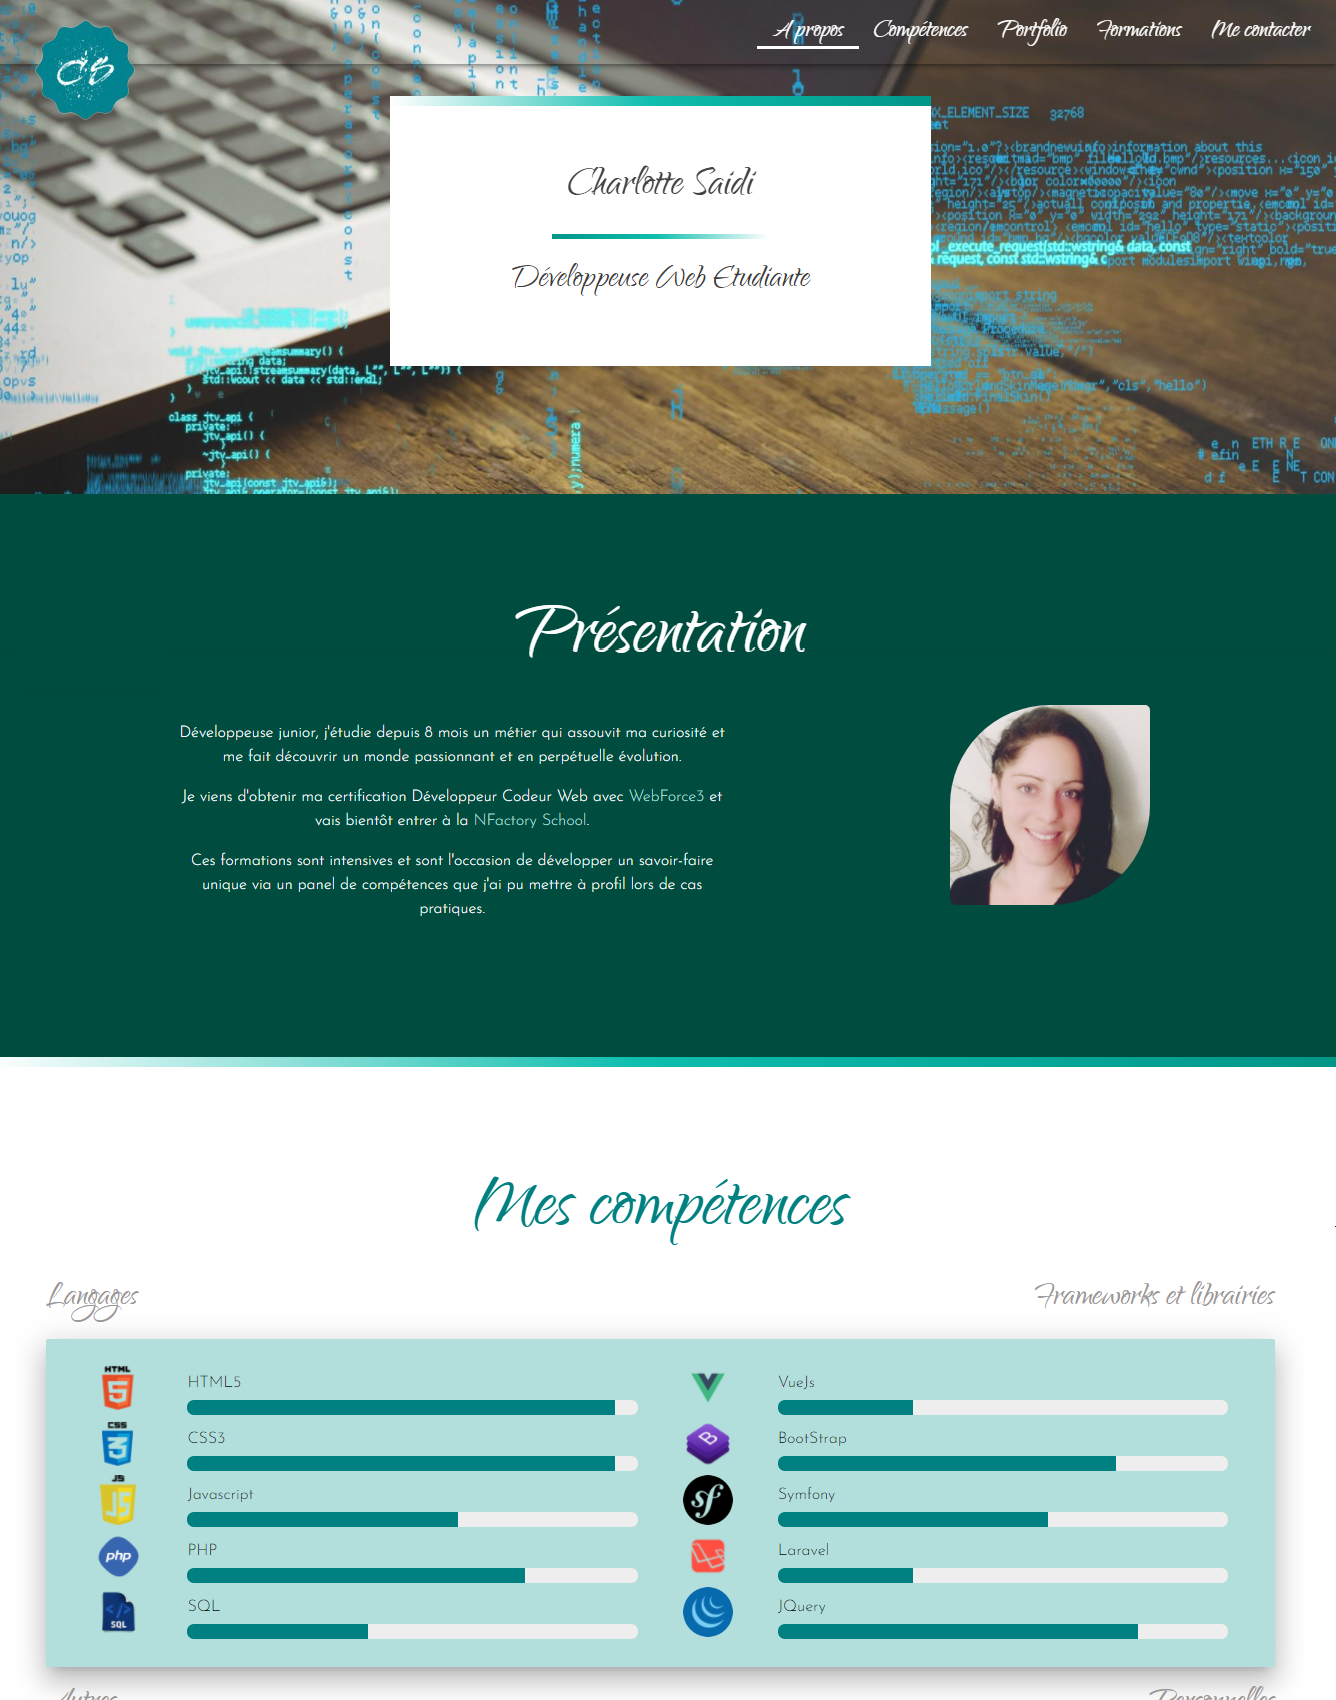
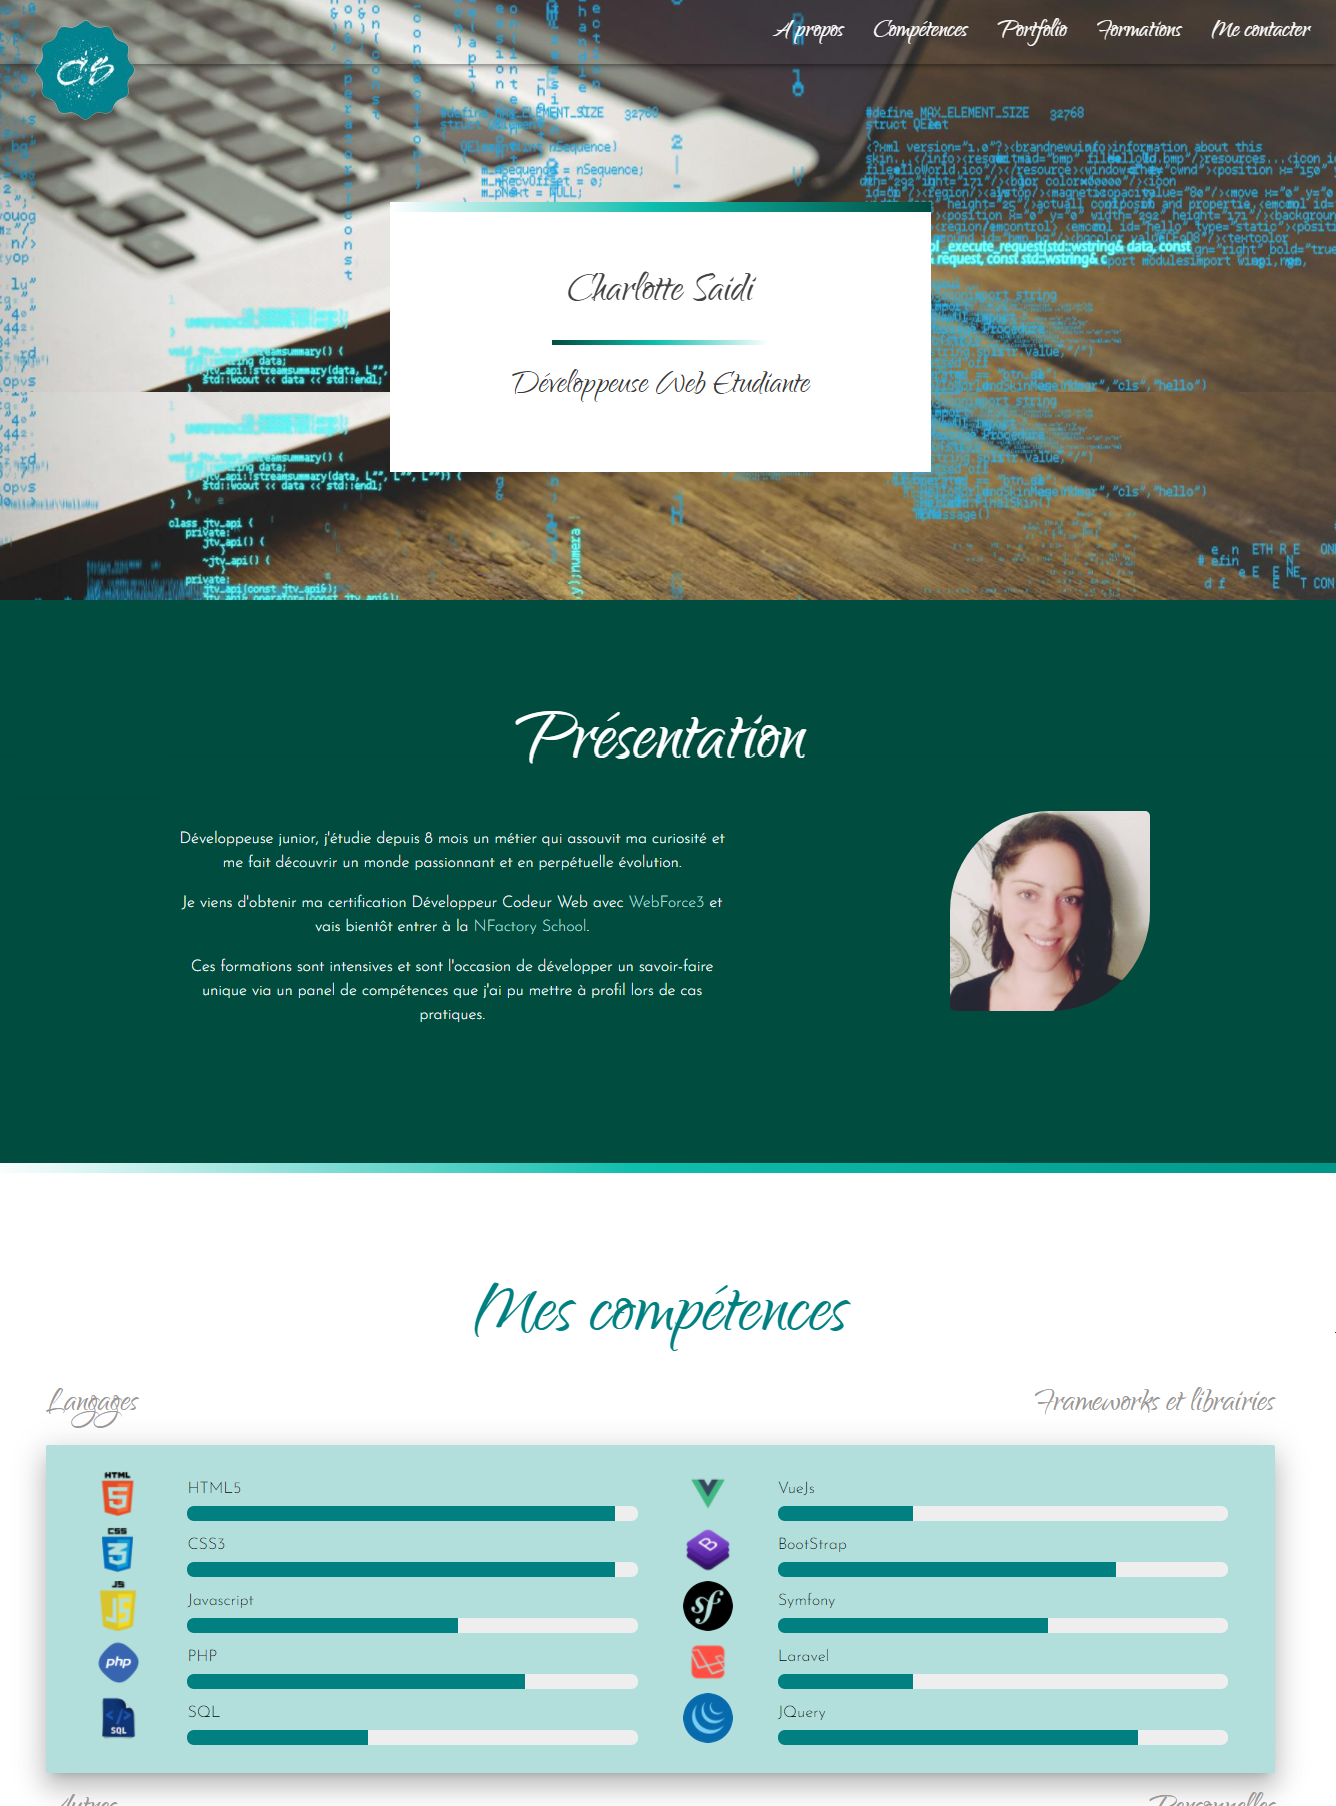
change style

diff --git a/assets/css/style.css b/assets/css/style.css
@@ -128,20 +128,20 @@ nav ul a:hover::after, a.active::after {
     width: 50%;
     margin: 0 auto;
     height: 5px;
-    background: rgb(0,150,136);
-    background: linear-gradient(90deg, rgba(0,150,136,1) 0%, rgba(15,190,174,1) 48%, rgba(255,255,255,1) 100%);
+    background: #004D40;
+    background: linear-gradient(90deg, #004D40 0%, rgba(15,190,174,1) 48%, rgba(255,255,255,1) 100%);
 }
 .caption {
     background: url('../images/separation.jpg') no-repeat fixed; background-size: cover; height: 600px; display: flex; padding-top: 74px;
 }
 .border-top {
     background: rgb(255,255,255);
-    background: linear-gradient(90deg, rgba(255,255,255,1) 0%, rgba(15,190,174,1) 48%, rgba(0,150,136,1) 100%);
+    background: linear-gradient(90deg, rgba(255,255,255,1) 0%, rgba(15,190,174,1) 48%, #004D40 100%);
     height: 10px;
 }
 .border-top-right {
-    background: rgb(0,150,136);
-    background: linear-gradient(90deg, rgba(0,150,136,1) 0%, rgba(15,190,174,1) 48%, rgba(255,255,255,1) 100%);
+    background: #004D40;
+    background: linear-gradient(90deg, #004D40 0%, rgba(15,190,174,1) 48%, rgba(255,255,255,1) 100%);
     height: 10px;
 }
 .hide {
@@ -179,7 +179,7 @@ nav ul a:hover::after, a.active::after {
     box-sizing: content-box;
     border: none;
     font: normal 90px/1 "Qwigley", Helvetica, sans-serif;
-    color: teal;
+    color: #004D40;
     text-align: center;
     -o-text-overflow: ellipsis;
     text-overflow: ellipsis;
@@ -206,7 +206,7 @@ nav ul a:hover::after, a.active::after {
     border-radius: 20px 0 0 20px;
     height: 15px;
     width: 5%;
-    background: teal;
+    background: #004D40;
     transition: all .9s;
 }
 #competences p {
@@ -411,7 +411,7 @@ textarea.materialize-textarea {
     object-fit: cover;
 }
 .social a:hover {
-    background-color: teal;
+    background-color: #004D40;
     border-radius: 50% 3px 50% 3px;
 }
 .btn-floating {
@@ -552,7 +552,7 @@ textarea.materialize-textarea {
     -webkit-transition: background .5s ease-in-out;
 }
 .timeline2 ul li.in-view::after {
-    background: teal;
+    background: #004D40;
     border: 2px solid white;
 }
 .timeline2 ul li div {

diff --git a/policy.html b/policy.html
@@ -51,7 +51,7 @@
             <div class="container">
                 <h3 class="center-align">POLITIQUE DE CONFIDENTIALITÉ</h3>
                 <div class="row center">
-                    <p><a href="https://charlottesaidi.github.io/portfolio/">https://charlottesaidi.github.io</a></p>
+                    <p><a href="https://charlottesaidi.github.io/portfolio/">www.charlottesaidi.fr</a></p>
                     <p>Charlotte Saidi</p>
                     <p>Type de site : Portfolio</p>
                 </div>
@@ -104,7 +104,7 @@
                 <ul>
                     <li>si la loi l'exige</li>
                     <li>si elle est requise pour toute procédure judiciaire</li>
-                    <li>pour prouver ou protéger nos droits légaux</li>
+                    <li>pour prouver ou protéger mes droits légaux</li>
                 </ul>
                 <br>
                 <h4>Combien de temps je stock les données personnelles</h4>
